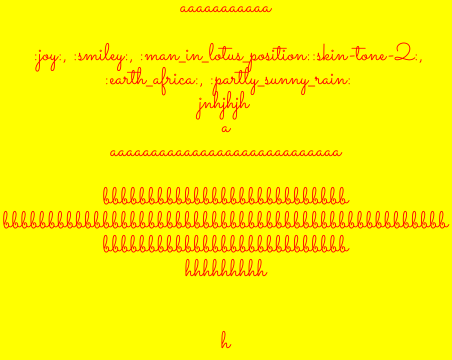
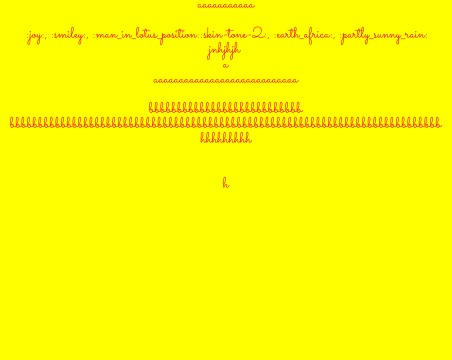
find fontsize/fit

diff --git a/findFontSize.js b/findFontSize.js
@@ -1,0 +1,258 @@
+const sharp = require("sharp")
+let font = ""
+const opentype = require("opentype.js")
+const { spaced } = require("letter-spacing")
+const request = require("request-promise")
+const fs = require("fs")
+const font2base64 = require("node-font2base64")
+const dst = process.argv[2]
+const dataText = {
+  coords: {
+    x: 163, //
+    y: 45, //
+  },
+  dimentionLocked: false,
+  height: 360, //
+  id: 61472,
+  layerType: "OrdinaryLayer",
+  maxWidth: 452, //
+  meta: {
+    backgroundColor: "yellow", // +
+    color: "red", //+
+    fontFamily: "Sacramento", //+
+    fontId: "805",
+    fontSize: 24, // +
+    highlightColor: "#FFFFFF", // der chka
+    horizontalAlign: "center", //
+    letterSpacing: 0, // +
+    lineHeight: 1, // +
+    shadow: "", // der chka
+    value: {
+      0: "aaaaaaaaaaa",
+      1: "",
+      2: ":joy:, :smiley:, :man_in_lotus_position::skin-tone-2:, :earth_africa:, :partly_sunny_rain:",
+      3: "jnhjhjh",
+      4: "a",
+      5: "aaaaaaaaaaaaaaaaaaaaaaaaaaaa",
+      6: "",
+      7: "bbbbbbbbbbbbbbbbbbbbbbbbbbb",
+      8: "bbbbbbbbbbbbbbbbbbbbbbbbbbbbbbbbbbbbbbbbbbbbbbbbbbbbbbbbbbbbbbbbbbbbbbbbbbbb",
+      9: "hhhhhhhhh",
+      10: "",
+      11: "",
+      12: "h",
+    },
+  },
+  order: 1,
+  placeholder: "",
+  rotation: 0,
+  title: "aaaaaaaa...",
+  type: "TEXT_LAYER",
+  width: 452,
+}
+Promise.each = function (arr, fn) {
+  return arr.reduce((prev, cur) => {
+    return prev.then(() => fn(cur))
+  }, Promise.resolve())
+}
+const tempfont = "./font-temp/temp1.ttf"
+const tempfont1 = "./font-temp/temp.ttf"
+
+const url = "https://static.essemem.com/fonts/sacramento-400.ttf"
+
+const getFontBuffer = async () => {
+  return await request(
+    {
+      url: url,
+      encoding: null,
+    },
+    (err, resp) => {
+      if (!err && resp.statusCode === 200) {
+        return resp.body
+      }
+      return null
+    }
+  )
+}
+
+const writeFontToFile = async () => {
+  const buffer = await getFontBuffer()
+  fs.writeFile(tempfont, buffer, (err) => {
+    if (err) {
+      console.error(err)
+    }
+  })
+}
+
+async function calculateWidth(value, font, dataText, fontSize) {
+  const letterSpacing = dataText.meta.letterSpacing
+  const path = font.getPath(spaced(value, letterSpacing), 0, 0, fontSize)
+  const pathSVG = path.toPathData()
+  const constsymbol = Buffer.from(`
+      <svg >
+        <path class="title" d="${pathSVG}"/>
+      </svg>
+      `)
+  return await getSymbolWidth(constsymbol)
+}
+
+const getSymbolWidth = (src) => {
+  return sharp(src)
+    .metadata()
+    .then((data) => data.width)
+    .then((widthletter) => widthletter)
+    .catch(console.log)
+}
+
+const fontFinder = async (string, font, boxWidth, dataText, fontSize) => {
+  const strWidth = await calculateWidth(string, font, dataText, fontSize)
+  const nextStrWidth = await calculateWidth(
+    string,
+    font,
+    dataText,
+    fontSize + 1
+  )
+
+  if (strWidth < boxWidth && nextStrWidth < boxWidth) {
+    const newFontSize = fontSize + 1
+    return await fontFinder(string, font, boxWidth, dataText, newFontSize)
+  }
+  if (strWidth <= boxWidth && nextStrWidth > boxWidth) {
+    return fontSize
+  }
+  if (nextStrWidth === boxWidth) {
+    return fontSize + 1
+  }
+}
+
+const createArrayOfFontSizes = async (dataText, font) => {
+  const objValues = Object.values(dataText.meta.value)
+  let boxWidth
+  if (dataText.width === "max-content") {
+    boxWidth = dataText.maxWidth
+  } else {
+    boxWidth = dataText.width
+  }
+  let arrOfFontSizes = []
+  const fontSIZES = await Promise.each(objValues, async (line) => {
+    if (line.length === 0) {
+      line = "<>"
+    }
+    const fontSIZE = await fontFinder(line, font, boxWidth, dataText, 3)
+    arrOfFontSizes.push(fontSIZE)
+  })
+  return arrOfFontSizes
+}
+
+const getSmallestFontSize = (arrOfFontSizes) => {
+  return arrOfFontSizes.reduce(function (accValue, curValue) {
+    return Math.min(accValue, curValue)
+  })
+}
+async function getFontSize(dataText) {
+  await writeFontToFile()
+  const font = await opentype.load(tempfont1)
+  const arrOfFontSizes = await createArrayOfFontSizes(dataText, font)
+  const smallestFontSize = await getSmallestFontSize(arrOfFontSizes)
+
+  console.log(smallestFontSize)
+  return smallestFontSize
+}
+
+const findXforHorizontalAlign = (horizontalAlign, widthOfSVG, widthOfPath) => {
+  switch (horizontalAlign) {
+    case "left":
+      return 0
+    case "center":
+      return (widthOfSVG - widthOfPath) / 2
+    case "right":
+      return widthOfSVG - widthOfPath
+  }
+}
+
+const createSvgText = async (objAlltextInTspan, font, dataText) => {
+  const letterSpacing = dataText.meta.letterSpacing
+  const fontSize = dataText.meta.fontSize
+  const lineHeight = dataText.meta.lineHeight
+  const color = dataText.meta.color
+  const backgroundColor = dataText.meta.backgroundColor
+  const heightOfSVG = dataText.height
+  const horizontalAlign = dataText.meta.horizontalAlign
+  let widthOfSVG
+
+  if (dataText.width === "max-content") {
+    widthOfSVG = dataText.maxWidth
+  } else {
+    widthOfSVG = dataText.width
+  }
+  const objValues = Object.values(objAlltextInTspan)
+  let tsapns = ""
+
+  const textInSvgCoords = {
+    x: 0,
+    y: dataText.meta.fontSize / 2,
+  }
+
+  const paths = await Promise.each(objValues, async (line) => {
+    if (line.length === 0) {
+      line = "<enter>"
+    }
+    const path = font.getPath(
+      spaced(line, letterSpacing),
+      textInSvgCoords.x,
+      textInSvgCoords.y,
+      fontSize
+    )
+    const pathSVG = path.toPathData()
+
+    if (line === "<enter>") {
+      tsapns += `<path  fill-opacity="0"  d="${pathSVG}"/>   `
+    } else {
+      const widthOfPath = await getSymbolWidth(
+        Buffer.from(`<svg><path d="${pathSVG}"/></svg>`)
+      )
+      const newX = await findXforHorizontalAlign(
+        horizontalAlign,
+        widthOfSVG,
+        widthOfPath
+      )
+      const xForTransform = newX - textInSvgCoords.x
+      tsapns += `<path transform ="translate(${xForTransform})" class="title" d="${pathSVG}"/>   `
+    }
+    textInSvgCoords.y += fontSize * lineHeight
+    return tsapns
+  })
+
+  return Buffer.from(`
+    <svg  viewBox="0 0 ${widthOfSVG} ${heightOfSVG}" >
+      <style>
+      .title {fill:${color}; }
+      </style>
+        <rect class="rect" width="100%" height="100%" fill="${backgroundColor}"/>
+        ${paths}
+    </svg>
+    `)
+}
+
+async function exportText(dataText) {
+  await writeFontToFile()
+  const font = await opentype.load(tempfont1)
+  dataText.meta.fontSize = await getFontSize(dataText)
+  const changedTextObj = dataText.meta.value
+  const textSvgBuffer = await createSvgText(changedTextObj, font, dataText)
+  return textSvgBuffer
+}
+
+const svgTextBufferToPng = async (dataText) => {
+  const buffer = await exportText(dataText)
+  sharp(buffer)
+    .png()
+    .toFile(dst)
+    .then((data) => {
+      console.log(data)
+    })
+    .catch((err) => {
+      console.log(err)
+    })
+}
+svgTextBufferToPng(dataText)
